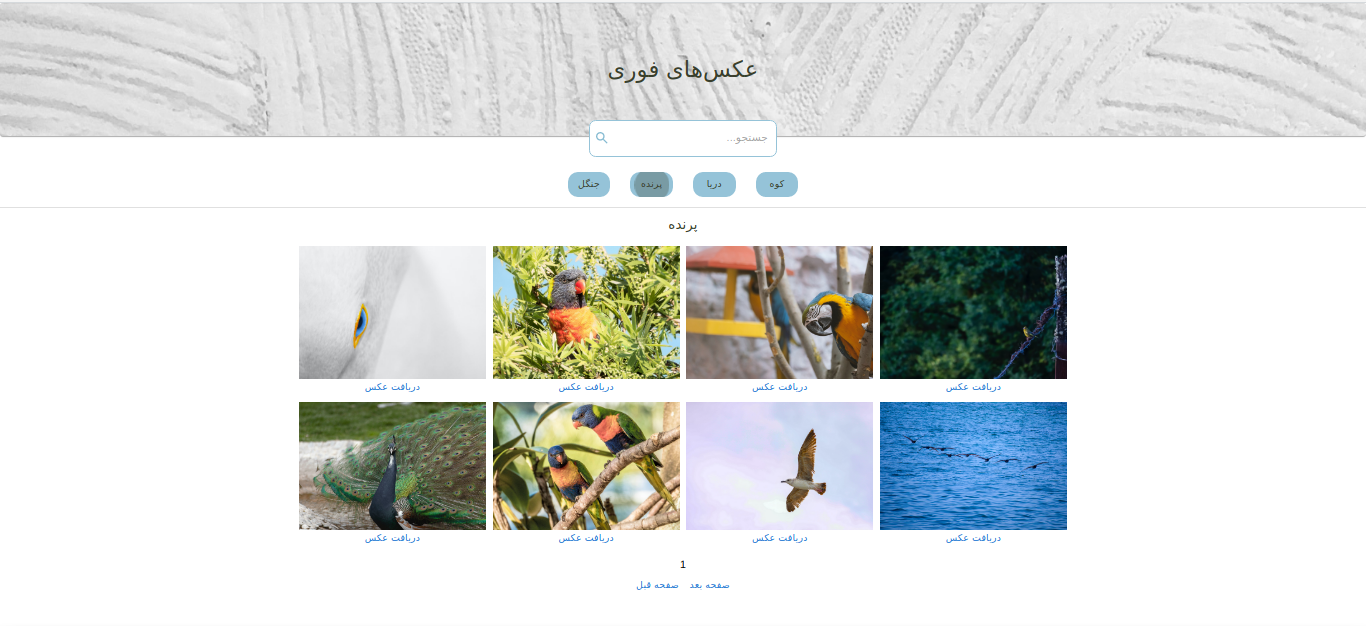
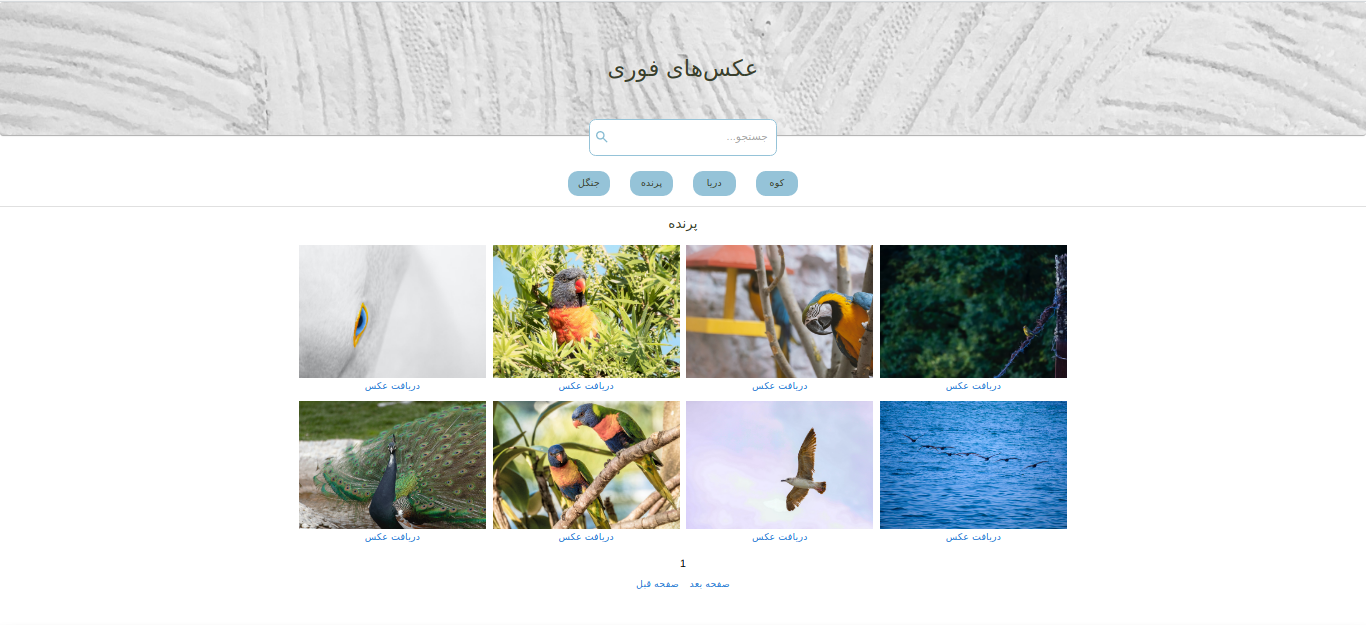
bug fixed (previous page button)

diff --git a/src/components/items/Gallery.js b/src/components/items/Gallery.js
@@ -45,7 +45,9 @@ function Gallery({search}) {
               <Photos photos={photos}/>
               <Typography>{page}</Typography>
               <Button onClick={() => changePageHandler("next")}>صفحه بعد</Button>
-              <Button onClick={() => changePageHandler("back")}>صفحه قبل</Button>
+              { page !== 1 &&
+                <Button onClick={() => changePageHandler("back")}>صفحه قبل</Button>
+              }
             </>
         ) : (
           <Typography>

diff --git a/README.md b/README.md
@@ -21,7 +21,7 @@ Click clone/download the repository on your local machine.
 
 ### `npm start`
 
-## Built With
+## Built With`
 
 * React js
 * React Router
@@ -34,3 +34,4 @@ Click clone/download the repository on your local machine.
 1. Responsive Design
 2. Search photoes
 3. The ability to go the next and previous page
+4. Ability to download images
